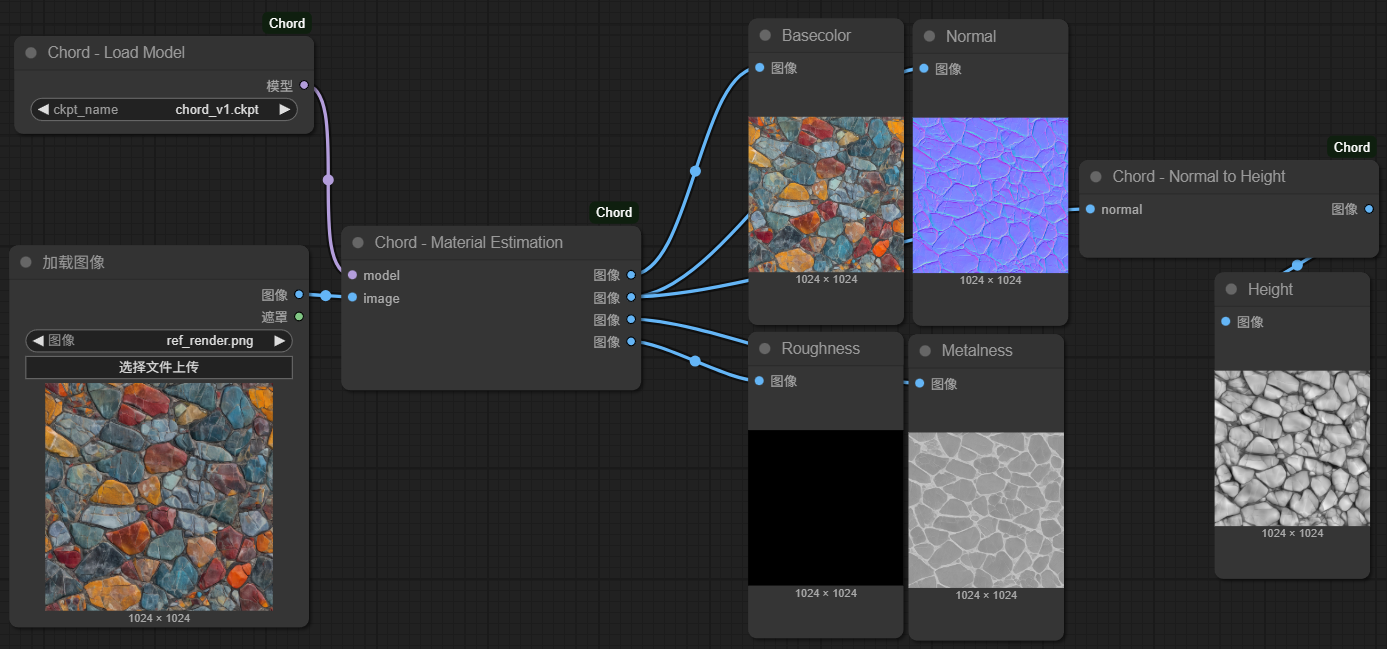
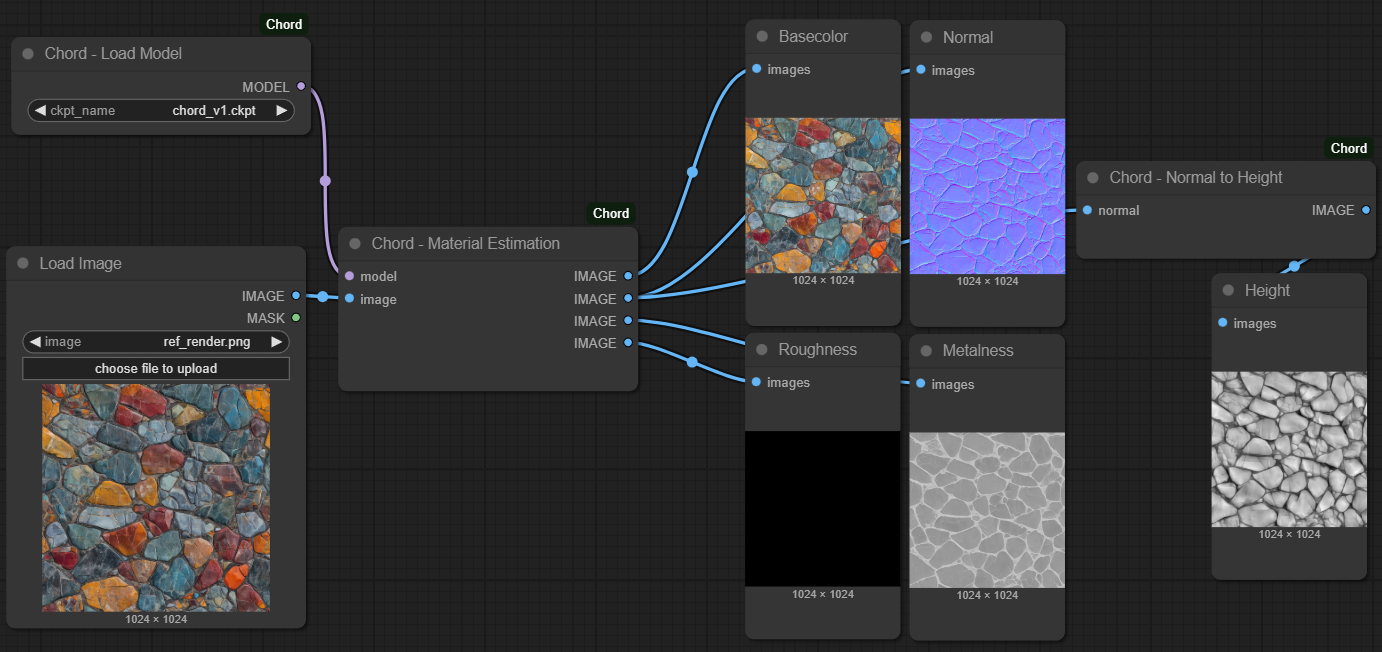
update fig

diff --git a/nodes.py b/nodes.py
@@ -6,11 +6,10 @@ from .normal_to_height import normal_to_height
 
 # Modules from ComfyUI
 import folder_paths
-from comfy_api.latest import ComfyExtension, io
+from comfy_api.latest import io
 
 # Modules from ComfyUI-Chord
 from chord import ChordModel
-from chord.io import read_image, save_maps
 
 def apply_padding(model, mode):
     for layer in [layer for _, layer in model.named_modules() if isinstance(layer, torch.nn.Conv2d)]:
@@ -74,15 +73,13 @@ class ChordMaterialEstimation(io.ComfyNode):
                     "model",
                     tooltip="The Chord model used to estimate material."
                 ),
-                io.Image.Input(
-                    "image",
-                ),
+                io.Image.Input("image",),
             ],
             outputs=[
-                io.Image.Output("basecolor"),
-                io.Image.Output("normal"),
-                io.Image.Output("roughness"),
-                io.Image.Output("metalness"),
+                io.Image.Output("basecolor",),
+                io.Image.Output("normal",),
+                io.Image.Output("roughness",),
+                io.Image.Output("metalness",),
             ]
         )
     
@@ -112,12 +109,10 @@ class ChordNormalToHeight(io.ComfyNode):
             category="Chord",
             description="A node to convert normal map to height map using Poisson solver with overlapping subregions.",
             inputs=[
-                io.Image.Input(
-                    "normal",
-                ),
+                io.Image.Input("normal",),
             ],
             outputs=[
-                io.Image.Output("height"), 
+                io.Image.Output("height",), 
             ],
         )
     
